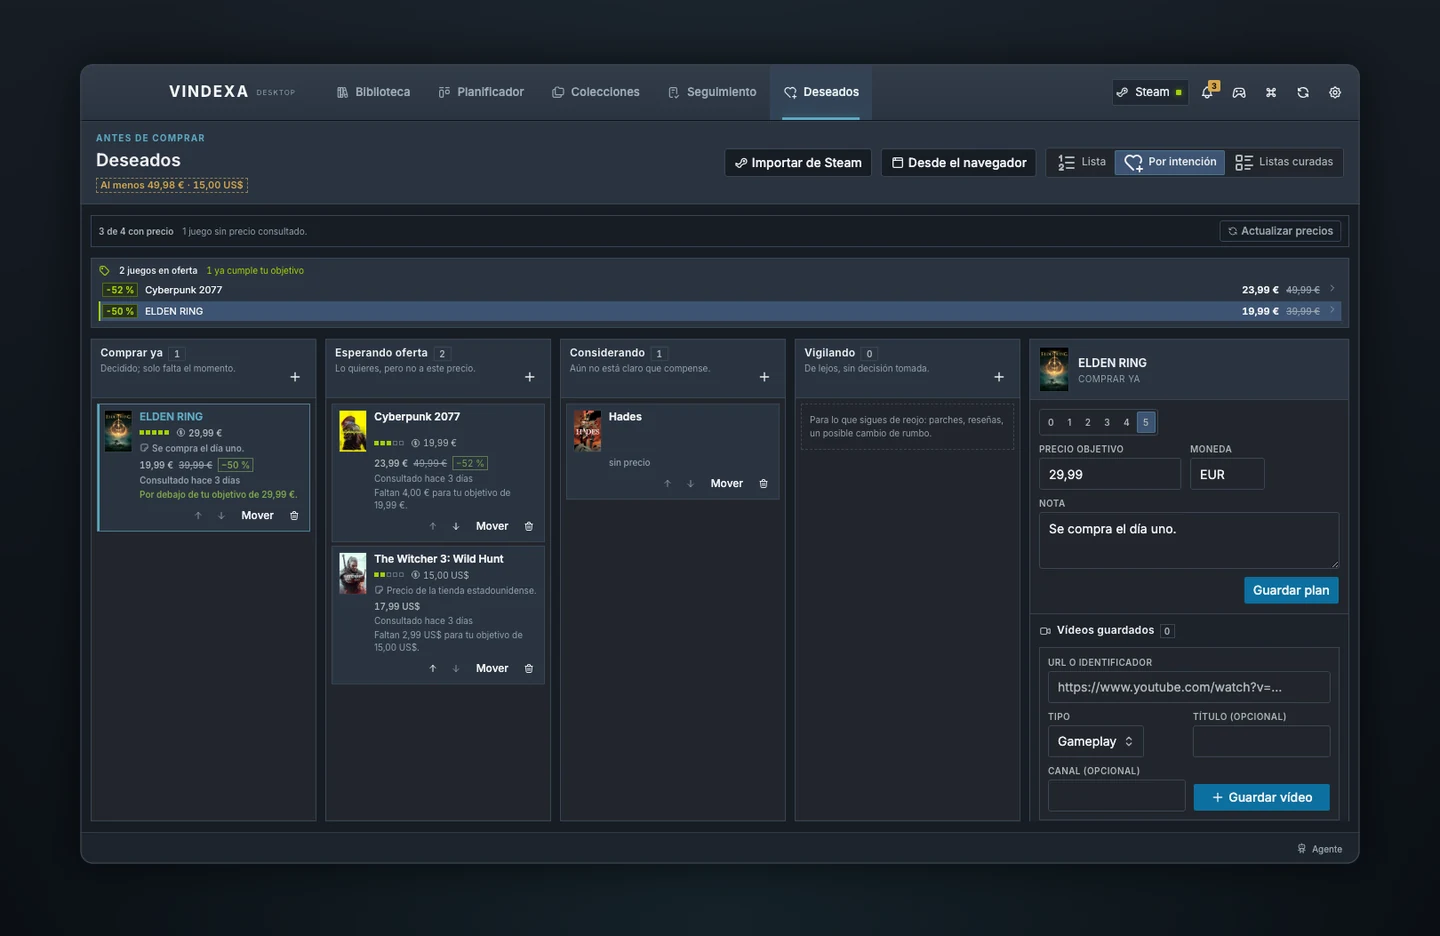
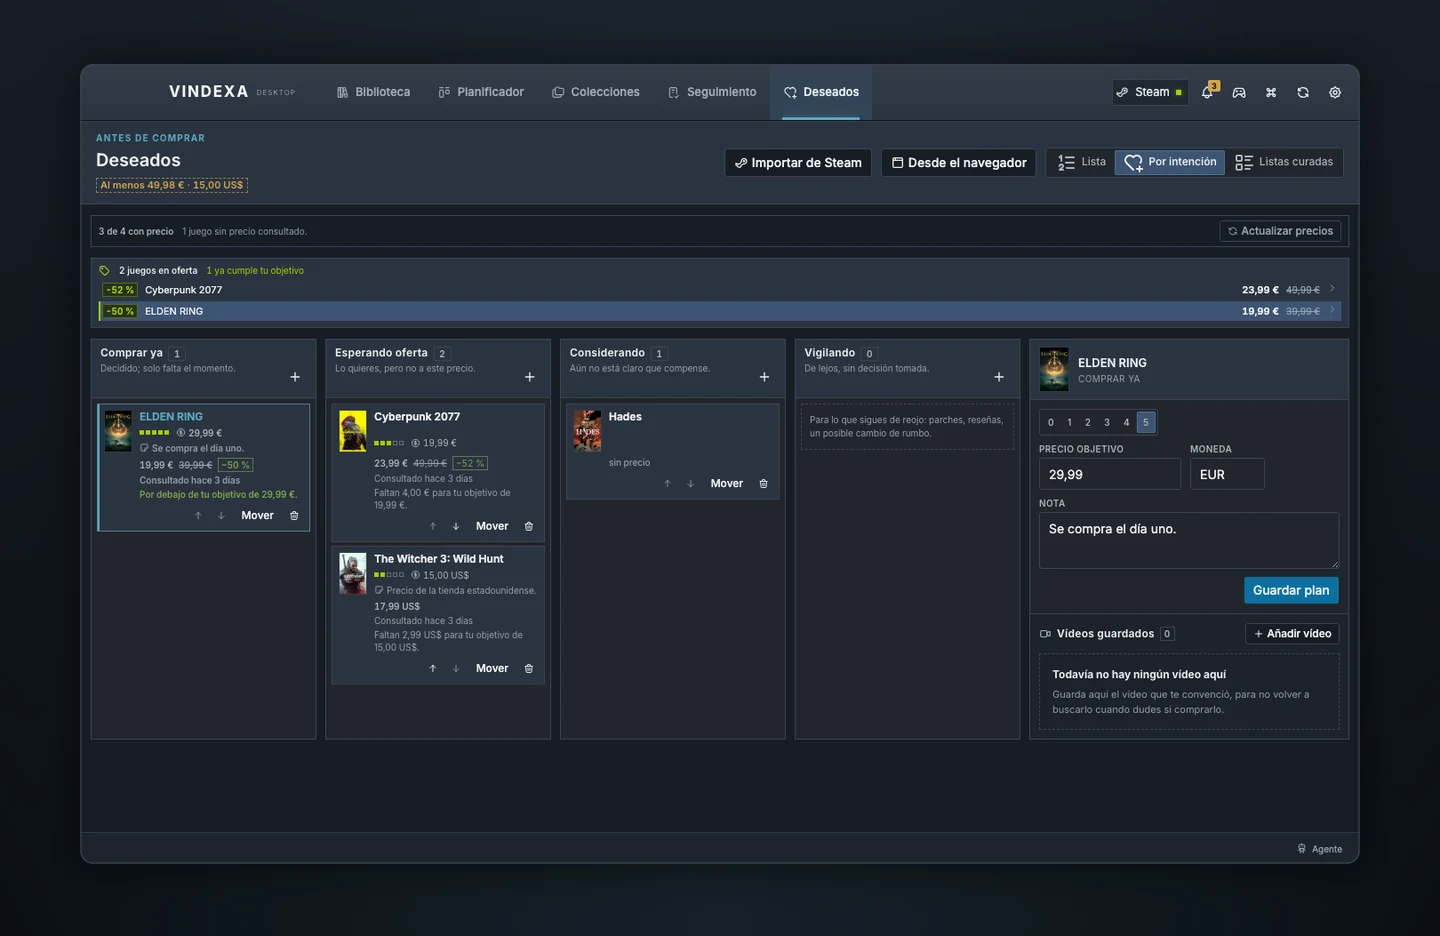
fix(vista rápida): la tarjeta reaparecía sobre la ficha recién abierta
La ficha no cubre la columna de la biblioteca. Al abrirse cambia el
reparto de la pantalla, el navegador vuelve a mirar qué hay bajo el
puntero —que no se ha movido— y le manda un `pointerenter` a la misma
carátula: para el emergente eso es un ratón pasando por encima, así que
volvía a salir, ya sobre el título del juego.

Cerrarlo al pulsar no bastaba, y por eso seguía pasando después de
haberlo dado por arreglado. La regla correcta es que con una capa modal
delante la ayuda para decidir no se enseña: ni al abrirla, ni si la ficha
llega después desde el teclado o la paleta —eso último se detecta porque
abrir un diálogo mueve el foco dentro de él—.

Se coló hasta la captura de la ficha que enseña el README, regenerada
aquí junto al resto de la vitrina.

Changed region(s): [[0.7188, 0.6506, 0.9062, 0.8365], [0.8125, 0.8365, 0.9375, 0.8675], [0.875, 0.6506, 0.9375, 0.6816]]

diff --git a/src/components/common/GamePreviewCard.tsx b/src/components/common/GamePreviewCard.tsx
@@ -89,6 +89,26 @@ type GamePreviewCardAllProps = GamePreviewCardProps &
  * composición funciona en cualquier orden. Hay una prueba que monta los dos
  * juntos y pulsa de verdad.
  */
+/**
+ * ¿Hay una ficha —o cualquier diálogo— abierta delante?
+ *
+ * La vista rápida existe para decidir si abrir algo. Con algo ya abierto encima
+ * no ayuda a nada: estorba, y encima aparece **sobre** la capa que manda.
+ *
+ * Pasaba sin que nadie lo pidiera: la ficha no cubre la columna de la
+ * biblioteca, así que al abrirse cambia el reparto de la pantalla, el navegador
+ * vuelve a mirar qué hay bajo el puntero —que no se ha movido— y le manda un
+ * `pointerenter` a la misma carátula. Para el emergente eso es indistinguible
+ * de alguien pasando el ratón por encima. Se coló hasta la captura del README.
+ *
+ * Se mira `[role="dialog"][data-state="open"]`, que son atributos públicos de
+ * la librería, no un detalle interno suyo.
+ */
+function hayUnaCapaModalDelante(): boolean {
+  if (typeof document === "undefined") return false;
+  return document.querySelector('[role="dialog"][data-state="open"]') !== null;
+}
+
 export const GamePreviewCard = forwardRef<HTMLAnchorElement, GamePreviewCardAllProps>(
   function GamePreviewCard(
     {
@@ -105,14 +125,46 @@ export const GamePreviewCard = forwardRef<HTMLAnchorElement, GamePreviewCardAllP
     ref,
   ) {
     const [open, setOpen] = useState(false);
+    // Cerrar no basta: el emergente tarda en aparecer, y si se pulsa antes de
+    // que le dé tiempo, la cuenta atrás sigue corriendo y termina con la ficha
+    // ya delante. Esta bandera ignora esa apertura tardía hasta que el puntero
+    // salga del disparador y vuelva, que es cuando de verdad se está pidiendo.
+    const suprimido = useRef(false);
     const reducedMotion = useReducedMotion();
+
+    const cerrarPorqueYaSeHaDecidido = () => {
+      suprimido.current = true;
+      setOpen(false);
+    };
+    // Y si la capa modal llega **después**, con la tarjeta ya abierta —desde la
+    // paleta de comandos, o con el teclado desde otro sitio—, la guarda de
+    // apertura no la ha visto pasar. Abrir un diálogo mueve el foco dentro de
+    // él: eso sirve de aviso sin acoplarse a nada interno.
+    useEffect(() => {
+      if (!open) return;
+      const alEnfocar = (event: FocusEvent) => {
+        const destino = event.target;
+        if (destino instanceof Element && destino.closest('[role="dialog"]')) {
+          setOpen(false);
+        }
+      };
+      document.addEventListener("focusin", alEnfocar);
+      return () => document.removeEventListener("focusin", alEnfocar);
+    }, [open]);
+
+    const volverAPermitir = () => {
+      suprimido.current = false;
+    };
 
     return (
       <HoverCardPrimitive.Root
         openDelay={OPEN_DELAY_MS}
         closeDelay={0}
         open={disabled ? false : open}
-        onOpenChange={setOpen}
+        onOpenChange={(next) => {
+          if (next && (suprimido.current || hayUnaCapaModalDelante())) return;
+          setOpen(next);
+        }}
       >
         {/* Al pulsar, la vista rápida se va.
             El emergente se cierra cuando el puntero **sale** del disparador, y
@@ -132,12 +184,23 @@ export const GamePreviewCard = forwardRef<HTMLAnchorElement, GamePreviewCardAllP
           {...rest}
           onPointerDown={(event) => {
             rest.onPointerDown?.(event);
-            setOpen(false);
+            cerrarPorqueYaSeHaDecidido();
           }}
           onClick={(event) => {
             // El teclado no genera `pointerdown`: abrir con Intro también cierra.
             rest.onClick?.(event);
-            setOpen(false);
+            cerrarPorqueYaSeHaDecidido();
+          }}
+          onPointerLeave={(event) => {
+            // Sacar el ratón y volver a entrar sí es pedirlo otra vez.
+            rest.onPointerLeave?.(event);
+            volverAPermitir();
+          }}
+          onBlur={(event) => {
+            // Y lo mismo con el teclado: al irse el foco, la próxima visita
+            // vuelve a poder enseñar la tarjeta.
+            rest.onBlur?.(event);
+            volverAPermitir();
           }}
         >
           {children}

diff --git a/tests/e2e/layout-integrity.spec.ts b/tests/e2e/layout-integrity.spec.ts
@@ -250,3 +250,90 @@ test.describe("los avisos de estado se leen", () => {
     }
   });
 });
+
+/**
+ * La vista rápida no puede quedarse encima de la ficha que acaba de abrirse.
+ *
+ * # El fallo
+ *
+ * Al pulsar una carátula se abre la ficha justo debajo del puntero. La tarjeta
+ * emergente se cierra al salir el ratón del disparador, y ahí el ratón ya no se
+ * mueve: el gesto no llega nunca y la tarjeta se queda flotando sobre el
+ * título del juego. Se coló hasta la captura del README, que es donde se ve
+ * mejor lo que esto significa: la portada del repositorio enseñaba la ficha con
+ * un recuadro encima tapando el nombre.
+ */
+test.describe("capas que se pisan", () => {
+  test("abrir una ficha cierra la vista rápida que había debajo", async ({ app, page }) => {
+    await page.setViewportSize({ width: 1440, height: 900 });
+    await app.goto();
+    await app.waitForShell();
+
+    // El emergente tarda en aparecer a propósito; se le da su tiempo para que
+    // la prueba compruebe el cierre y no una carrera contra el retardo.
+    const carátula = app.gameButton("Nebula Frontier");
+    await carátula.hover();
+    await page.waitForTimeout(900);
+
+    await carátula.click();
+    await expect(page.getByRole("dialog")).toBeVisible();
+    await page.waitForTimeout(900);
+
+    // Radix marca el disparador con el estado del emergente, y el contenido
+    // vive en un portal fuera del diálogo: se comprueban los dos.
+    await expect(carátula.locator('[data-state="open"]')).toHaveCount(0);
+    const emergentes = page.locator('[data-radix-popper-content-wrapper]');
+    await expect(emergentes).toHaveCount(0);
+  });
+
+  /**
+   * Y el caso que de verdad se coló: pulsar **sin esperar**.
+   *
+   * El emergente tarda setecientos milisegundos en aparecer. Si se pulsa antes,
+   * el cierre no encuentra nada abierto que cerrar, pero la cuenta atrás sigue
+   * corriendo: termina con la ficha ya delante y abre la tarjeta encima. Por
+   * eso pasaba «muchas veces» y no siempre.
+   */
+  test("y tampoco aparece después, si se pulsó antes de que le diera tiempo", async ({
+    app,
+    page,
+  }) => {
+    await page.setViewportSize({ width: 1440, height: 900 });
+    await app.goto();
+    await app.waitForShell();
+
+    const carátula = app.gameButton("Nebula Frontier");
+    await carátula.click();
+    await expect(page.getByRole("dialog")).toBeVisible();
+    // Más que el retardo de apertura: si va a salir, sale aquí.
+    await page.waitForTimeout(1200);
+
+    await expect(page.locator("[data-radix-popper-content-wrapper]")).toHaveCount(0);
+  });
+
+  /**
+   * Y el tercer camino: la tarjeta ya está abierta y la ficha llega de otro
+   * sitio. La guarda de apertura no puede verlo venir, así que el cierre se
+   * apoya en lo único que siempre ocurre al abrir una capa modal: el foco se
+   * mete dentro de ella.
+   */
+  test("una ficha abierta desde el teclado también se lleva la vista rápida", async ({
+    app,
+    page,
+  }) => {
+    await page.setViewportSize({ width: 1440, height: 900 });
+    await app.goto();
+    await app.waitForShell();
+
+    await app.gameButton("Nebula Frontier").hover();
+    await expect(page.locator(".game-preview")).toBeVisible();
+
+    // Otra carátula, abierta con el teclado: la que está bajo el ratón no se
+    // toca, y aun así su tarjeta tiene que irse.
+    await app.gameButton("Clockwork Harbor").focus();
+    await page.keyboard.press("Enter");
+    await expect(page.getByRole("dialog")).toBeVisible();
+
+    await expect(page.locator(".game-preview")).toHaveCount(0);
+  });
+});

diff --git a/CHANGELOG.md b/CHANGELOG.md
@@ -4,6 +4,33 @@ Este archivo sigue [Keep a Changelog](https://keepachangelog.com/es-ES/1.1.0/) y
 proyecto usa [versionado semántico](https://semver.org/lang/es/). Una sección describe el
 estado del código, no una publicación, mientras figure como **Sin publicar**.
 
+## [Sin publicar]
+
+### Corregido
+
+- **La vista rápida se quedaba encima de la ficha, y se coló hasta la portada del repositorio.**
+  Al pulsar una carátula, la ficha se abre pero **no cubre la columna de la biblioteca**: cambia
+  el reparto de la pantalla, el navegador vuelve a mirar qué hay bajo el puntero —que no se ha
+  movido— y le manda un `pointerenter` a la misma carátula. Para el emergente eso es
+  indistinguible de alguien pasando el ratón por encima, así que volvía a salir, ya sobre el
+  título del juego. La captura de la ficha que enseña el README lo llevaba puesto. Ahora la
+  regla es la que debía ser desde el principio: **con una capa modal delante, la ayuda para
+  decidir no se enseña**, ni al abrirla ni si la ficha llega después desde el teclado o la
+  paleta. Tres pruebas de extremo a extremo cubren los tres caminos.
+- **Un regalo de Epic que empieza hoy decía «Desde el 20 ago».** Epic cambia el regalo los
+  jueves a media tarde, así que lo anunciado empieza hoy la mitad de las veces y había que
+  mirar el calendario para entenderlo. Hoy y mañana se dicen por su nombre, y con la hora.
+
+### Cambiado
+
+- **El alta de vídeos deja de ocupar la columna sin que nadie la pida.** Cuatro campos y un
+  botón, siempre visibles en el panel de deseados, aunque no hubiera ni un vídeo guardado. Ahora
+  se piden con un botón; el estado vacío ya explicaba para qué sirve.
+- **El tablero de colecciones aparece a partir de la segunda.** Con una sola se comía
+  cuatrocientos píxeles de alto para enseñar una tarjeta con media pantalla en negro al lado, y
+  todo lo que ofrece —elegir, reordenar, editar, borrar— o no aplica con una colección o está
+  también en la cabecera del detalle.
+
 ## [0.1.5] · 2026-08-20
 
 ### Añadido
